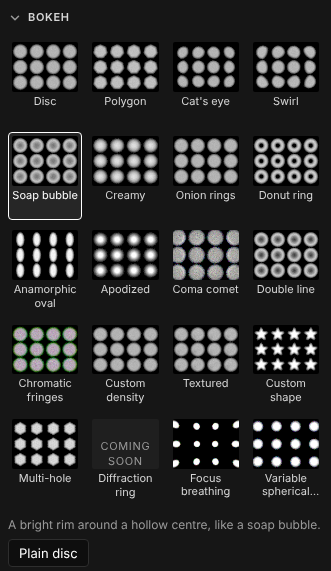
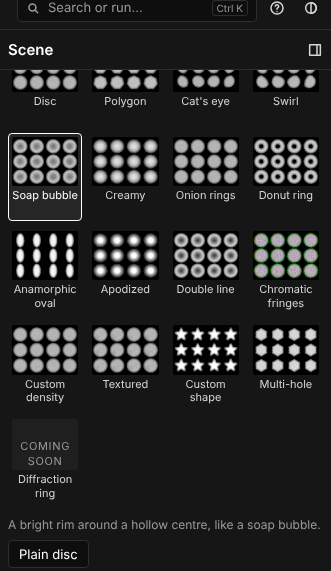
O4: the decisions; the traced lens's bokeh types leave the simple lens's grid
The grid of Camera > Bokeh keeps the 17 types of the simple lens: coma,
focus breathing and variable spherical aberration are their lenses' own
in Lens > Traced lens, and no traced option is mixed in. The browser test
fails with them shown; lens-check and optics-check follow, and
camera-bokeh.png (with camera-optics.png, lens-editor.png and
lens-section.png, now with the interface of main) is re-recorded.

ROADMAP O4 records the seven decisions in place of its open points, with
the real-ray two-point solve for a traced lens left for after F1.

Claude-Session: https://claude.ai/code/session_01Vyw8CoEN48cqBKpA2hjydX

diff --git a/src/ui/panels/insp-lens.ts b/src/ui/panels/insp-lens.ts
@@ -8,7 +8,6 @@
 import { BOKEH_TYPES, PUPIL_PROFILES, bokehParams, bokehType, type BokehThin, type BokehType, type PupilProfile } from '../../data/bokeh';
 import type { CameraId, CameraState } from '../../core/camera';
 import { OPTICS_LIMITS, OPTICS_NEUTRAL, SQUEEZES, bokehApplies, filtersOf, opticsOf, thinOf, type CameraOptics } from '../../core/optics';
-import { lensPrescription } from '../../data/lenses';
 import * as cmd from '../commands';
 import { field, numberField, segmented, select, slider, type Control } from '../components/controls';
 import { thumb } from '../components/widgets';
@@ -74,16 +73,15 @@ export function opticsFields(ctx: Ctx, scope: Scope, camId: () => CameraId): HTM
   const grid = h('div', { class: 'thumbs cols-4', role: 'listbox', 'aria-label': t('camera.bokehType'), 'data-bokeh-grid': '' });
   const tiles = new Map<string, HTMLButtonElement>();
   for (const type of BOKEH_TYPES) {
-    // O2: the types of the traced lens are that lens's own; since O4 the grid (the simple lens's) shows them with their
-    // thumbnail and says where they are (Lens ▸ Traced lens), without switching the lens model. Wave optics is to come.
-    const traced = type.requires === 'traced' && !!type.lens && !!lensPrescription(type.lens);
+    // O4 (decided): the types of the traced lens (coma, focus breathing, variable spherical aberration) are that lens's
+    // own and are not in this grid, the simple lens's: no traced option mixed in. Wave optics is to come.
+    if (type.requires === 'traced') continue;
     const can = type.requires === null && type.thin !== null;
-    const lensName = traced ? lbl(lensPrescription(type.lens!)!.name) : '';
     const el = thumb({
-      src: can || traced ? bokehThumb(type.key) : null,
+      src: can ? bokehThumb(type.key) : null,
       caption: lbl(type.name),
       active: false,
-      title: traced ? `${lbl(type.description)} · ${t('camera.bokehTraced', { lens: lensName })}` : can ? lbl(type.description) : `${lbl(type.description)} · ${t('camera.bokehWave')}`,
+      title: can ? lbl(type.description) : `${lbl(type.description)} · ${t('camera.bokehWave')}`,
       onClick: () => {
         if (can) choose(type.key, optics().bokeh === type.key ? optics().variant : defaultVariant(type));
       },
@@ -92,7 +90,6 @@ export function opticsFields(ctx: Ctx, scope: Scope, camId: () => CameraId): HTM
     if (!can) {
       el.disabled = true;
       el.setAttribute('aria-disabled', 'true');
-      if (traced) el.setAttribute('data-bokeh-traced', '');
       el.querySelector('.thumb-ph')?.append(h('span', { class: 'aux', style: 'display:block;padding-top:30%' }, t('camera.bokehSoon')));
     }
     tiles.set(type.key, el);

diff --git a/tests/lens-modes-browser.test.ts b/tests/lens-modes-browser.test.ts
@@ -132,10 +132,9 @@ describe.skipIf(!executablePath)('the simple and the traced lens in the inspecto
     const back = await page.evaluate(() => window.lensTest!.optics());
     expect({ ...back, traced: undefined }).toEqual({ ...chosen, traced: undefined });
     expect(await page.locator('[data-bokeh="bubble"]').getAttribute('aria-pressed')).toBe('true');
-    // The traced lens's own bokeh types are shown, and say where they are, without switching anything.
-    const coma = page.locator('[data-bokeh="coma_comet"]');
-    expect(await coma.isDisabled()).toBe(true);
-    expect(await coma.getAttribute('data-tip')).toMatch(/Lens ▸ Traced lens/);
+    // The traced lens's own bokeh types are not in the simple lens's grid at all (O4, decided): the rest are.
+    for (const key of ['coma_comet', 'focus_breathing', 'variable_sa']) expect(await page.locator(`[data-bokeh="${key}"]`).count()).toBe(0);
+    expect(await page.locator('[data-bokeh-grid] [data-bokeh]').count()).toBe(17);
     expect(errors).toEqual([]);
   }, 120000);
 

diff --git a/src/ui/strings.ts b/src/ui/strings.ts
@@ -637,8 +637,6 @@ const TABLE = {
   'camera.bokehType': ['Bokeh type', 'Tipo de bokeh'],
   'camera.bokehVariant': ['Variant', 'Variante'],
   'camera.bokehCustom': ['Custom: a knob was moved by hand', 'A medida: se ha movido un mando a mano'],
-  'camera.bokehTraced': ['Comes from a traced lens: choose {lens} in Lens ▸ Traced lens', 'Sale de una lente trazada: elige {lens} en Lente ▸ Lente trazada'],
-  'camera.bokehTracedSoon': ['Traced lens', 'Lente trazada'],
   'camera.bokehSimpleOnly': ['Bokeh is an option of the simple lens: this camera has a traced lens, which makes its own', 'El bokeh es una opción de la lente simple: esta cámara tiene una lente trazada, que hace el suyo'],
   'camera.bokehWave': ['Needs wave optics: coming soon', 'Necesita óptica de ondas: próximamente'],
   'camera.bokehSoon': ['Coming soon', 'Próximamente'],

diff --git a/docs/ROADMAP.md b/docs/ROADMAP.md
@@ -5148,9 +5148,10 @@ paridad wasm.
   (`opticsWithLensModel`, `setLensModel`) ya no borra el tipo de bokeh ni su
   variante: el bokeh, sus parámetros y la inclinación de la lente simple se
   quedan en `optics` y vuelven tal cual; cambiar de lente trazada tampoco lo
-  borra. Los tres tipos de la lente trazada siguen en la rejilla con su
-  miniatura, apagados, diciendo dónde está su lente (*Lente ▸ Lente
-  trazada*) ◆. Tests: `tests/lens-o4.test.ts` (cada tipo y cada variante
+  borra. Los tres tipos de la lente trazada (cometa de coma, respiración de
+  foco, aberración esférica variable) **no están en la rejilla** de la lente
+  simple: son de sus lentes en *Lente ▸ Lente trazada* (decidido, abajo; al
+  principio salían apagados diciendo dónde estaba su lente). Tests: `tests/lens-o4.test.ts` (cada tipo y cada variante
   contra una cámara trazada; la orden con su aviso; la vuelta con el bokeh y
   la óptica avanzada) y `tests/traced-lens.test.ts`, cuyo test de O2
   esperaba justo el bug («un tipo de la lente fina devuelve la cámara a la
@@ -5167,7 +5168,7 @@ paridad wasm.
   queda nítido), y el ángulo se resuelve con la óptica paraxial de la lente
   (el conjugado del plano del sensor, `Abcd`, bisección) para que su plano
   de enfoque se incline **como el de la lente simple** de la misma
-  inclinación ◆; el centro se reenfoca con rayos reales (la curvatura de
+  inclinación (decidido); el centro se reenfoca con rayos reales (la curvatura de
   campo donde la inclinación pone el punto de enfoque: sin eso el centro
   quedaba hasta un 4,5 % lejos en el tele); los límites de la pupila se
   trazan en 9 × 9 posiciones del sensor y el peso lleva el coseno del
@@ -5205,7 +5206,7 @@ paridad wasm.
   dos puntos a la misma profundidad solo enfocan; un segundo punto
   imposible (más de 12°, en línea con la vista, detrás) avisa y espera. La
   función resuelve también el plano por **tres** puntos (test), aunque el
-  visor solo pide dos ◆. **El plano en el visor**: un cuadrado translúcido
+  visor solo pide dos (decidido: sin tercer punto por ahora). **El plano en el visor**: un cuadrado translúcido
   con rejilla, en la tinta de la interfaz, alrededor del producto y en
   perspectiva, con el punto de enfoque (y el primer punto elegido), en
   Rápido y en Completo, mientras el puntero o el foco están en el bloque,
@@ -5241,23 +5242,23 @@ mismo plano que la lente simple (la lente real gira el ángulo que haga
 falta, y el motor lo dice), para que el dibujo del plano y los dos puntos
 valgan con las dos lentes; la otra opción, que el número sea el giro físico
 de la lente y el plano salga de su óptica, hace falsa la cuenta de la
-interfaz con una lente trazada ◆. (3) **Curvatura de campo.** Con una
+interfaz con una lente trazada. (3) **Curvatura de campo.** Con una
 lente trazada el plano por dos puntos es exacto en el centro y paraxial
 fuera: un punto en la esquina de la doble Gauss a f/8 cae a un 3–10 % de
 profundidad del plano (en el triplete, mucho más: es su campo curvo, igual
 que derecha). Resolverlo con rayos reales pediría al motor el plano de una
-cámara (un puerto nuevo) ◆. (4) **La inclinación de la lente trazada se
+cámara (un puerto nuevo): pendiente para después de F1 (abajo). (4) **La inclinación de la lente trazada se
 guarda aparte** (`tracedTiltDeg`, `tracedTiltAxisDeg`): una cámara trazada
 de antes con una inclinación de la lente simple guardada (el motor la
 ignoraba) no empieza a inclinarse; el desplazamiento, en cambio, es uno
 solo para las dos lentes, porque el motor ya lo aplicaba a las dos. (5) **El
 diafragma y la aberración cromática y el remolino** son de la cámara, no de
 cada lente (el motor los usa con las dos y así se guardaban): tocarlos con
-una lente trazada deja el bokeh de la lente simple en *A medida* ◆.
-(6) **Los tipos de bokeh de la lente trazada** en la rejilla: apagados y
-diciendo dónde está su lente; también se podían quitar o dejar el clic que
-pasa a la lente trazada ◆. (7) El plano del visor se dibuja encima de todo
-(como los glifos y el *gizmo*), sin cortarse con el producto ◆. (8) El dial
+una lente trazada deja el bokeh de la lente simple en *A medida*.
+(6) **Los tipos de bokeh de la lente trazada** en la rejilla: primero
+salían apagados diciendo dónde estaba su lente; con la decisión se quitan
+de la rejilla. (7) El plano del visor se dibuja encima de todo
+(como los glifos y el *gizmo*), sin cortarse con el producto. (8) El dial
 guarda, al tocarlo, la inclinación positiva y el eje girado 180° si hacía
 falta: el mismo plano (test); lo guardado antes no se toca hasta que se
 edita. (9) **Coordinación**: *Por dos puntos* escribe la distancia de
@@ -5268,7 +5269,30 @@ enfoque ni su rayo. K3: sus verticales rectas no escriben los campos
 componen (arriba). (10) El modo
 Rápido sigue sin desenfoque: el plano dibujado es lo que lo sustituye
 mientras se ajusta. (11) El límite de 12° es el de la lente simple de O1
-para las dos (un descentrable real llega a unos 8,5°) ◆.
+para las dos (un descentrable real llega a unos 8,5°).
+
+**Decidido** (por la dirección de la sesión, sobre los puntos que este
+párrafo dejaba abiertos):
+
+1. **Sin tercer punto por ahora**: *Por dos puntos* basta. El plano del
+   visor se queda como está (encima de todo, al pasar el puntero, al elegir
+   los puntos o siempre con *Ver el plano*). `solveTilt` sigue resolviendo
+   tres puntos (test), sin mando.
+2. **La inclinación de una lente trazada es «el mismo plano que la lente
+   simple»**, como está.
+3. **Con una lente trazada, *Por dos puntos* debe resolverse con rayos
+   reales.** Pendiente: F1 trae `Camera::focus_distance_to` con el mejor
+   foco trazado; cuando F1 esté en `main`, el plano por dos puntos de una
+   lente trazada pasará por él (no se construye en O4).
+4. **El diafragma, la aberración cromática y el remolino son compartidos**
+   por los dos modelos, como está.
+5. **Los tres tipos de bokeh de la lente trazada se quitan** de la rejilla
+   de la lente simple (la persona no quiere opciones de la trazada
+   mezcladas). Hecho: la rejilla tiene 17 tipos; lo comprueban
+   `tests/lens-modes-browser.test.ts`, `tools/lens-check.mjs` y
+   `tools/optics-check.mjs`, y `camera-bokeh.png` está regrabada.
+6. **El límite de 12° se queda.**
+7. **La hoja `rt --tilt-sheet` se acepta.**
 
 ## P5 · Actualizar desde la aplicación — **Sonnet** — hecha
 
@@ -11956,18 +11980,6 @@ cambia la luminancia y la saturación media en menos del 0,1 %).
   claros en oscuro, lo que aplana la jerarquía de grises. Decidir: subirlos,
   limitar el texto auxiliar a `bg-0`, `bg-1` y *hover* (`#4e4e4e` /
   `#afafaf`) o aceptar 4,5:1 para el texto secundario.
-- **O4** (los ◆ de su párrafo): el plan de interacción de la inclinación
-  (cantidad y dirección con dial y cuatro atajos; *Por dos puntos*, con o
-  sin un tercer punto; el plano dibujado al pasar el puntero o siempre,
-  encima de todo o cortado con el producto); qué significa la inclinación
-  de una lente trazada (el mismo plano que la lente simple, como ahora, o
-  el giro físico de la lente); si el plano por dos puntos debe resolverse
-  con rayos reales del motor con una lente trazada (su curvatura de campo);
-  el diafragma, la aberración cromática y el remolino compartidos por los
-  dos modelos o uno por modelo; los tipos de bokeh de la lente trazada en
-  la rejilla de la lente simple (apagados diciendo dónde, quitados, o el
-  clic que cambia de lente); el límite de 12° para las dos lentes; y el
-  veredicto de la hoja `rt --tilt-sheet`.
 
 - **U15** (los ◆ de su párrafo): el aspecto de la **variante compacta**
   de las flechas (hoy un par más fino, siempre visible, en los campos con

diff --git a/docs/CHANGELOG.md b/docs/CHANGELOG.md
@@ -8,7 +8,7 @@ fase del roadmap (`ROADMAP.md`) de donde sale cada línea.
 ### Cámara y lente
 
 - La **lente fina** se llama ahora **lente simple** (*Simple lens*), en la interfaz, la ayuda y la documentación; los proyectos la siguen guardando igual y se abren sin cambios (O4).
-- **El bokeh y la óptica avanzada son de la lente simple**: con una lente trazada no salen, y elegir un bokeh ya no saca a la cámara de su lente trazada por ningún camino (si llega uno, un aviso dice que es una opción de la lente simple). Volver a la lente simple encuentra el bokeh y la óptica avanzada como estaban. Los tres tipos de bokeh de la lente trazada siguen en la rejilla con su miniatura y dicen en qué lente están (O4).
+- **El bokeh y la óptica avanzada son de la lente simple**: con una lente trazada no salen, y elegir un bokeh ya no saca a la cámara de su lente trazada por ningún camino (si llega uno, un aviso dice que es una opción de la lente simple). Volver a la lente simple encuentra el bokeh y la óptica avanzada como estaban. Los tres tipos de bokeh de la lente trazada (cometa de coma, respiración de foco, aberración esférica variable) salen de la rejilla, que queda con los 17 de la lente simple: son de sus lentes en *Lente ▸ Lente trazada* (O4).
 - La lente trazada tiene **Más opciones** (antes *Avanzado*) con su propia **inclinación y desplazamiento**: el motor gira la lente real respecto al sensor hasta que su plano de enfoque es el que tendría la lente simple con la misma inclinación, y dice cuánto la gira; el resto del diafragma (redondez, giro, obstrucción) también está ahí. El adaptador anamórfico no se inclina, y lo dice (O4).
 - Una **inclinación más fácil**, en las dos lentes: la cantidad en un deslizador y la dirección hacia la que se aleja el plano en un dial con cuatro atajos (*como el suelo, como el techo, como una pared*); **Por dos puntos…**: dos clics en el producto ajustan la inclinación y la distancia de enfoque para que los dos salgan nítidos, en un solo paso de deshacer; y el **plano de enfoque dibujado en el visor** mientras se ajusta o siempre (*Ver el plano*) (O4).
 

diff --git a/docs/UI.md b/docs/UI.md
@@ -898,16 +898,15 @@ salvo los dos que construyen cosas: *Crear estudio* y *Render*.
      ![ventana de una lente de la lista](lens-hover.png)
      ![ventana de las lentes de un carácter](lens-hover-chip.png)
    - **Bokeh** (abierto; **solo con la lente simple**, O4: con una lente
-     trazada no sale): rejilla de 4 columnas con los 20 tipos de
-     `src/data/bokeh.json`, cada uno con su **miniatura renderizada por
+     trazada no sale): rejilla de 4 columnas con los 17 tipos de la lente
+     simple de `src/data/bokeh.json`, cada uno con su **miniatura renderizada por
      el propio motor** (`public/thumbs/bokeh/`, `tools/bokeh-thumbs.mjs`:
      doce puntos de luz desenfocados sobre negro) y el nombre debajo; la
      descripción del tipo va en el *tooltip* y, del elegido, en una nota.
      Los tres de la lente trazada (O2: cometa de coma, respiración de
-     foco, aberración esférica variable) enseñan su miniatura renderizada
-     con su lente, pero salen apagados y el *tooltip* dice dónde está esa
-     lente (*Sale de una lente trazada: elige … en Lente ▸ Lente trazada*):
-     un clic en el bokeh ya no cambia el modelo de lente (O4); el de
+     foco, aberración esférica variable) **no están en la rejilla** (O4:
+     son de sus lentes en *Lente ▸ Lente trazada*, y en las opciones de la
+     lente simple no se mezcla nada de la trazada); el de
      difracción sale apagado con *Próximamente* (*Necesita óptica de
      ondas*). Ningún camino aplica un bokeh a una cámara con lente trazada
      ni la saca de ella: todos pasan por la orden `applyBokeh`

diff --git a/docs/GALERIA.md b/docs/GALERIA.md
@@ -285,7 +285,7 @@ Texturas y etiquetas, editor de materiales por nodos, sets de estudio, selector 
 #### O1 · Lente fina mejorada y selector de bokeh
 
 <a id="c-camera-bokeh"></a><img src="ui/camera-bokeh.png" width="300" alt="El selector de bokeh: veinte tipos con una miniatura renderizada por el motor; los que necesitan la lente trazada dicen «próximamente»."><br>
-`camera-bokeh.png` · `0830f93` · El selector de bokeh: veinte tipos con una miniatura renderizada por el motor; los que necesitan la lente trazada dicen «próximamente». *(regrabada en v0.1.7, y en Sin publicar: los tres de la lente trazada con su miniatura, apagados, diciendo dónde está su lente, O4)*
+`camera-bokeh.png` · `0830f93` · El selector de bokeh: veinte tipos con una miniatura renderizada por el motor; los que necesitan la lente trazada dicen «próximamente». *(regrabada en v0.1.7, y en Sin publicar: diecisiete tipos, sin los tres de la lente trazada, O4)*
 
 <a id="c-camera-optics"></a><img src="ui/camera-optics.png" width="300" alt="Óptica avanzada: láminas, redondez, giro, perfil, obstrucción, ojo de gato, anamórfico, inclinación y desplazamiento, y los mandos «no físico»."><br>
 `camera-optics.png` · `0830f93` · Óptica avanzada: láminas, redondez, giro, perfil, obstrucción, ojo de gato, anamórfico, inclinación y desplazamiento, y los mandos «no físico». *(regrabada en v0.1.7, y en Sin publicar con el bloque de inclinación de O4)*

diff --git a/docs/SPEC.md b/docs/SPEC.md
@@ -1108,7 +1108,7 @@ gato recorta el haz hacia las esquinas y las oscurece (es el viñeteo
 una de tres bandas (decisión 3) sin mover el plano de enfoque. Los tipos
 que necesitan la lente trazada (cometa de coma, respiración de foco,
 aberración esférica variable) ponen su lente del catálogo en la cámara
-(O2; desde O4 la interfaz no los ofrece como bokeh, son lentes de *Lente
+(O2; desde O4 la rejilla de bokeh no los enseña, son lentes de *Lente
 trazada*) y el de difracción espera a la óptica de ondas. **El bokeh y la
 óptica avanzada son de la lente simple (O4)**: ningún tipo de bokeh se
 aplica a una cámara con lente trazada ni la saca de ella
